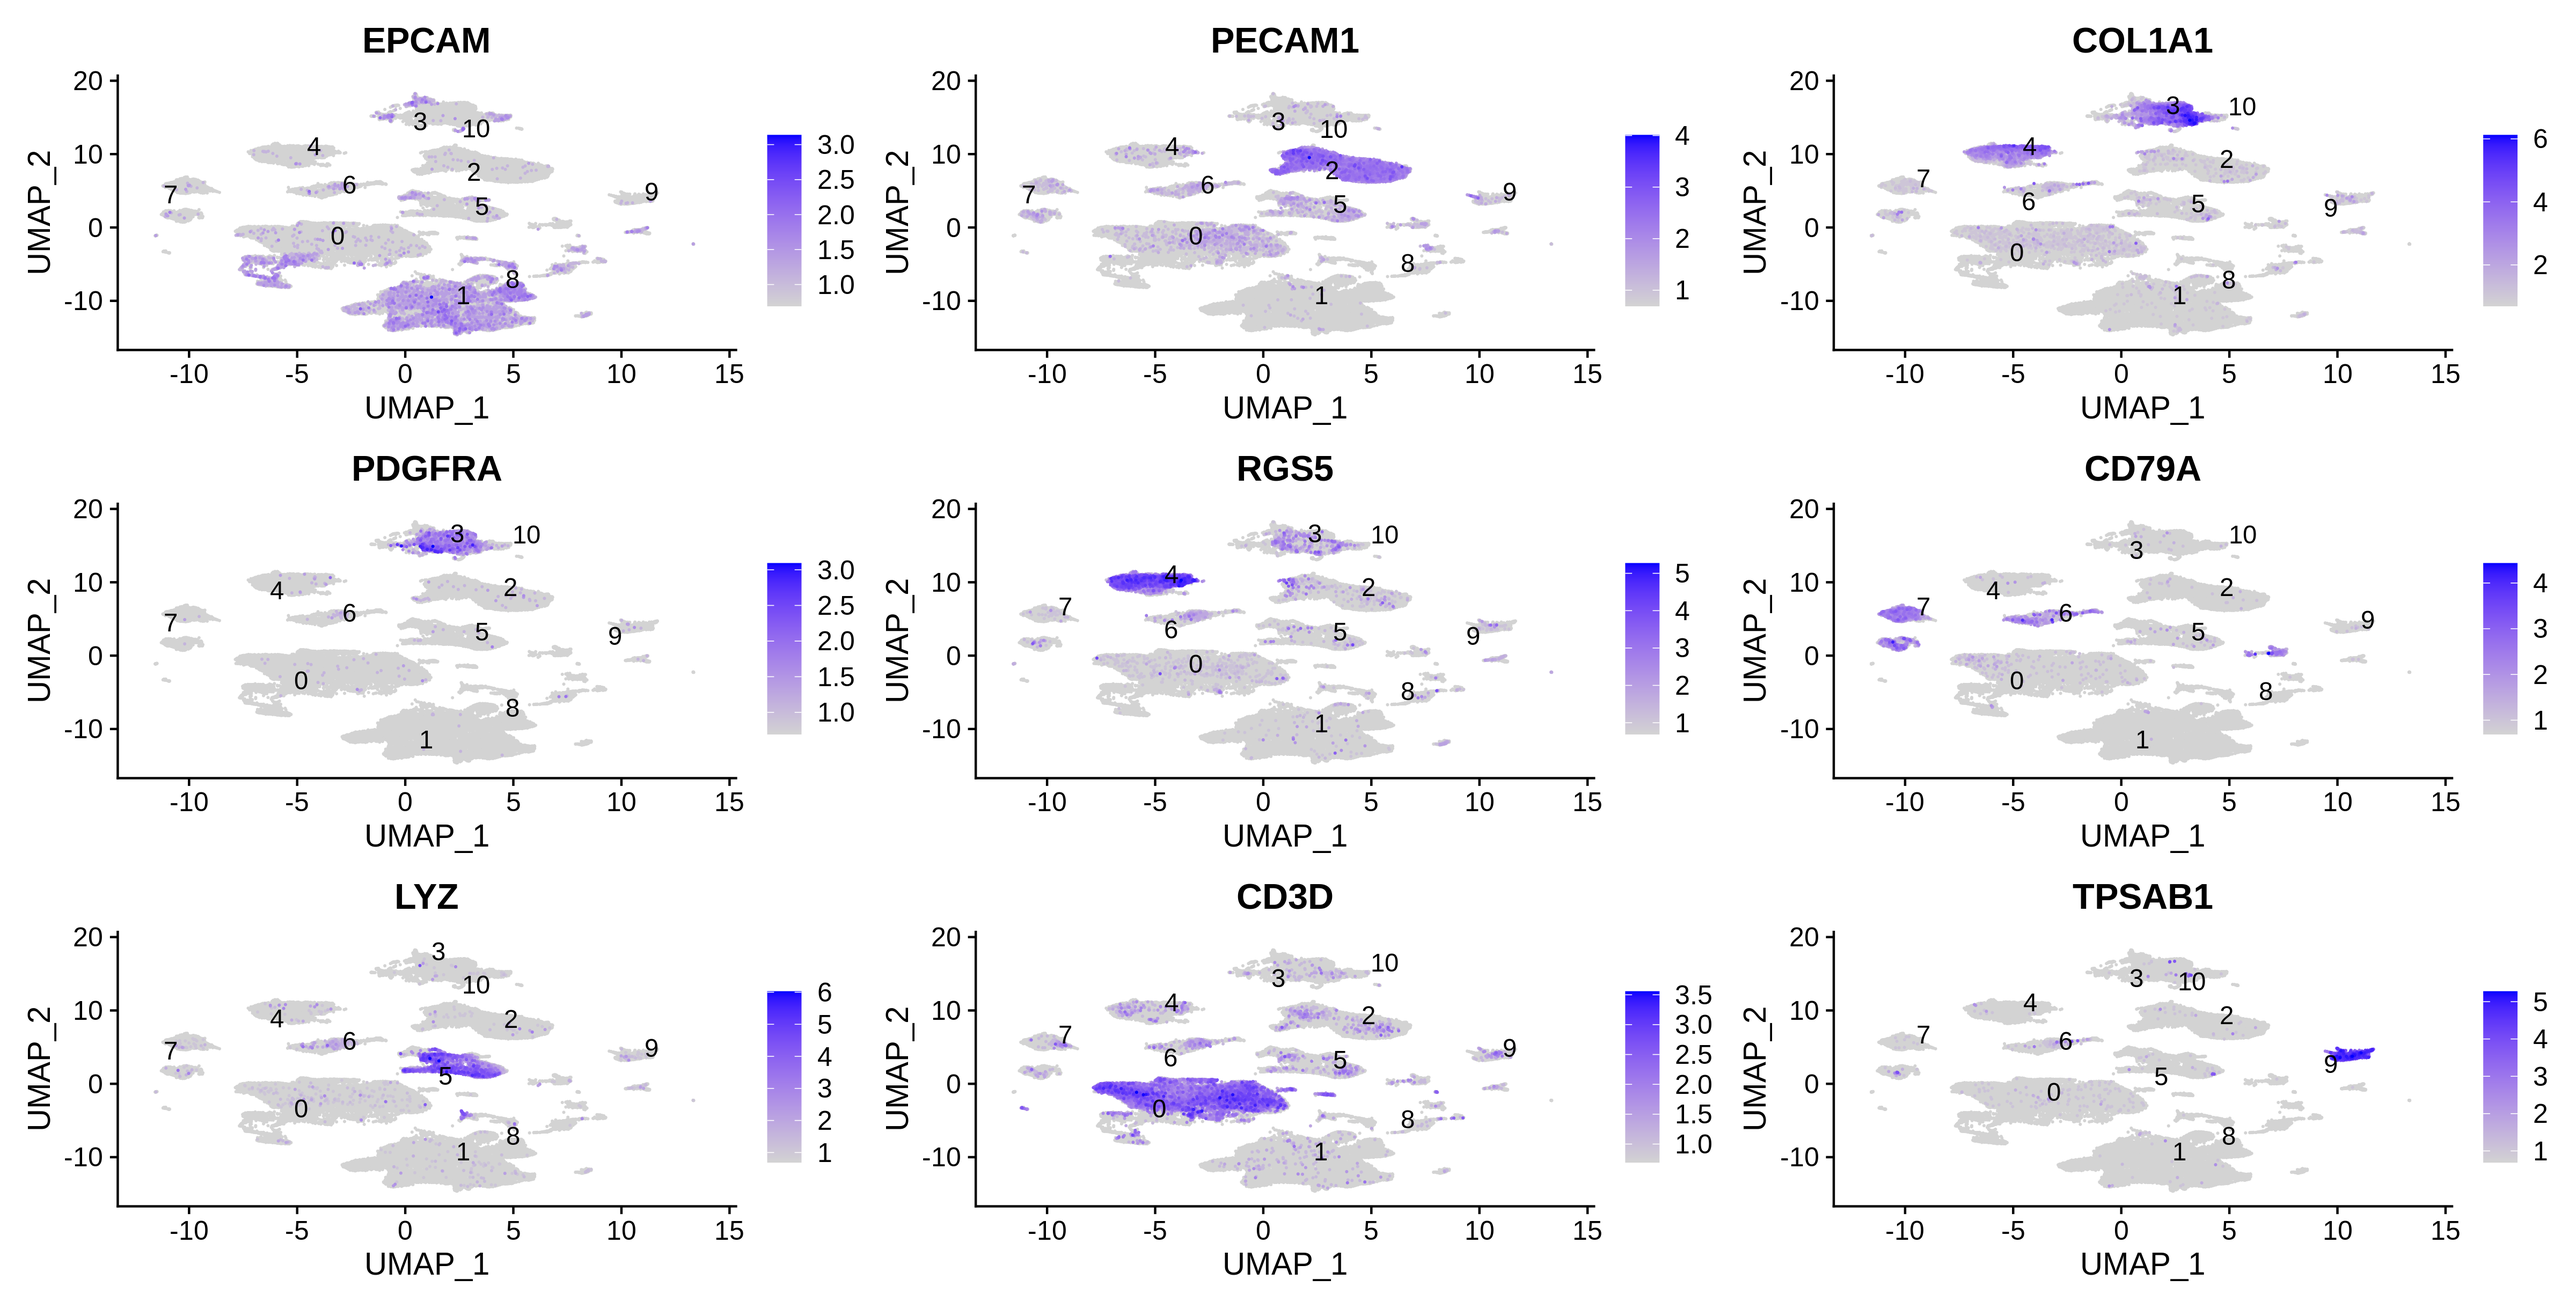
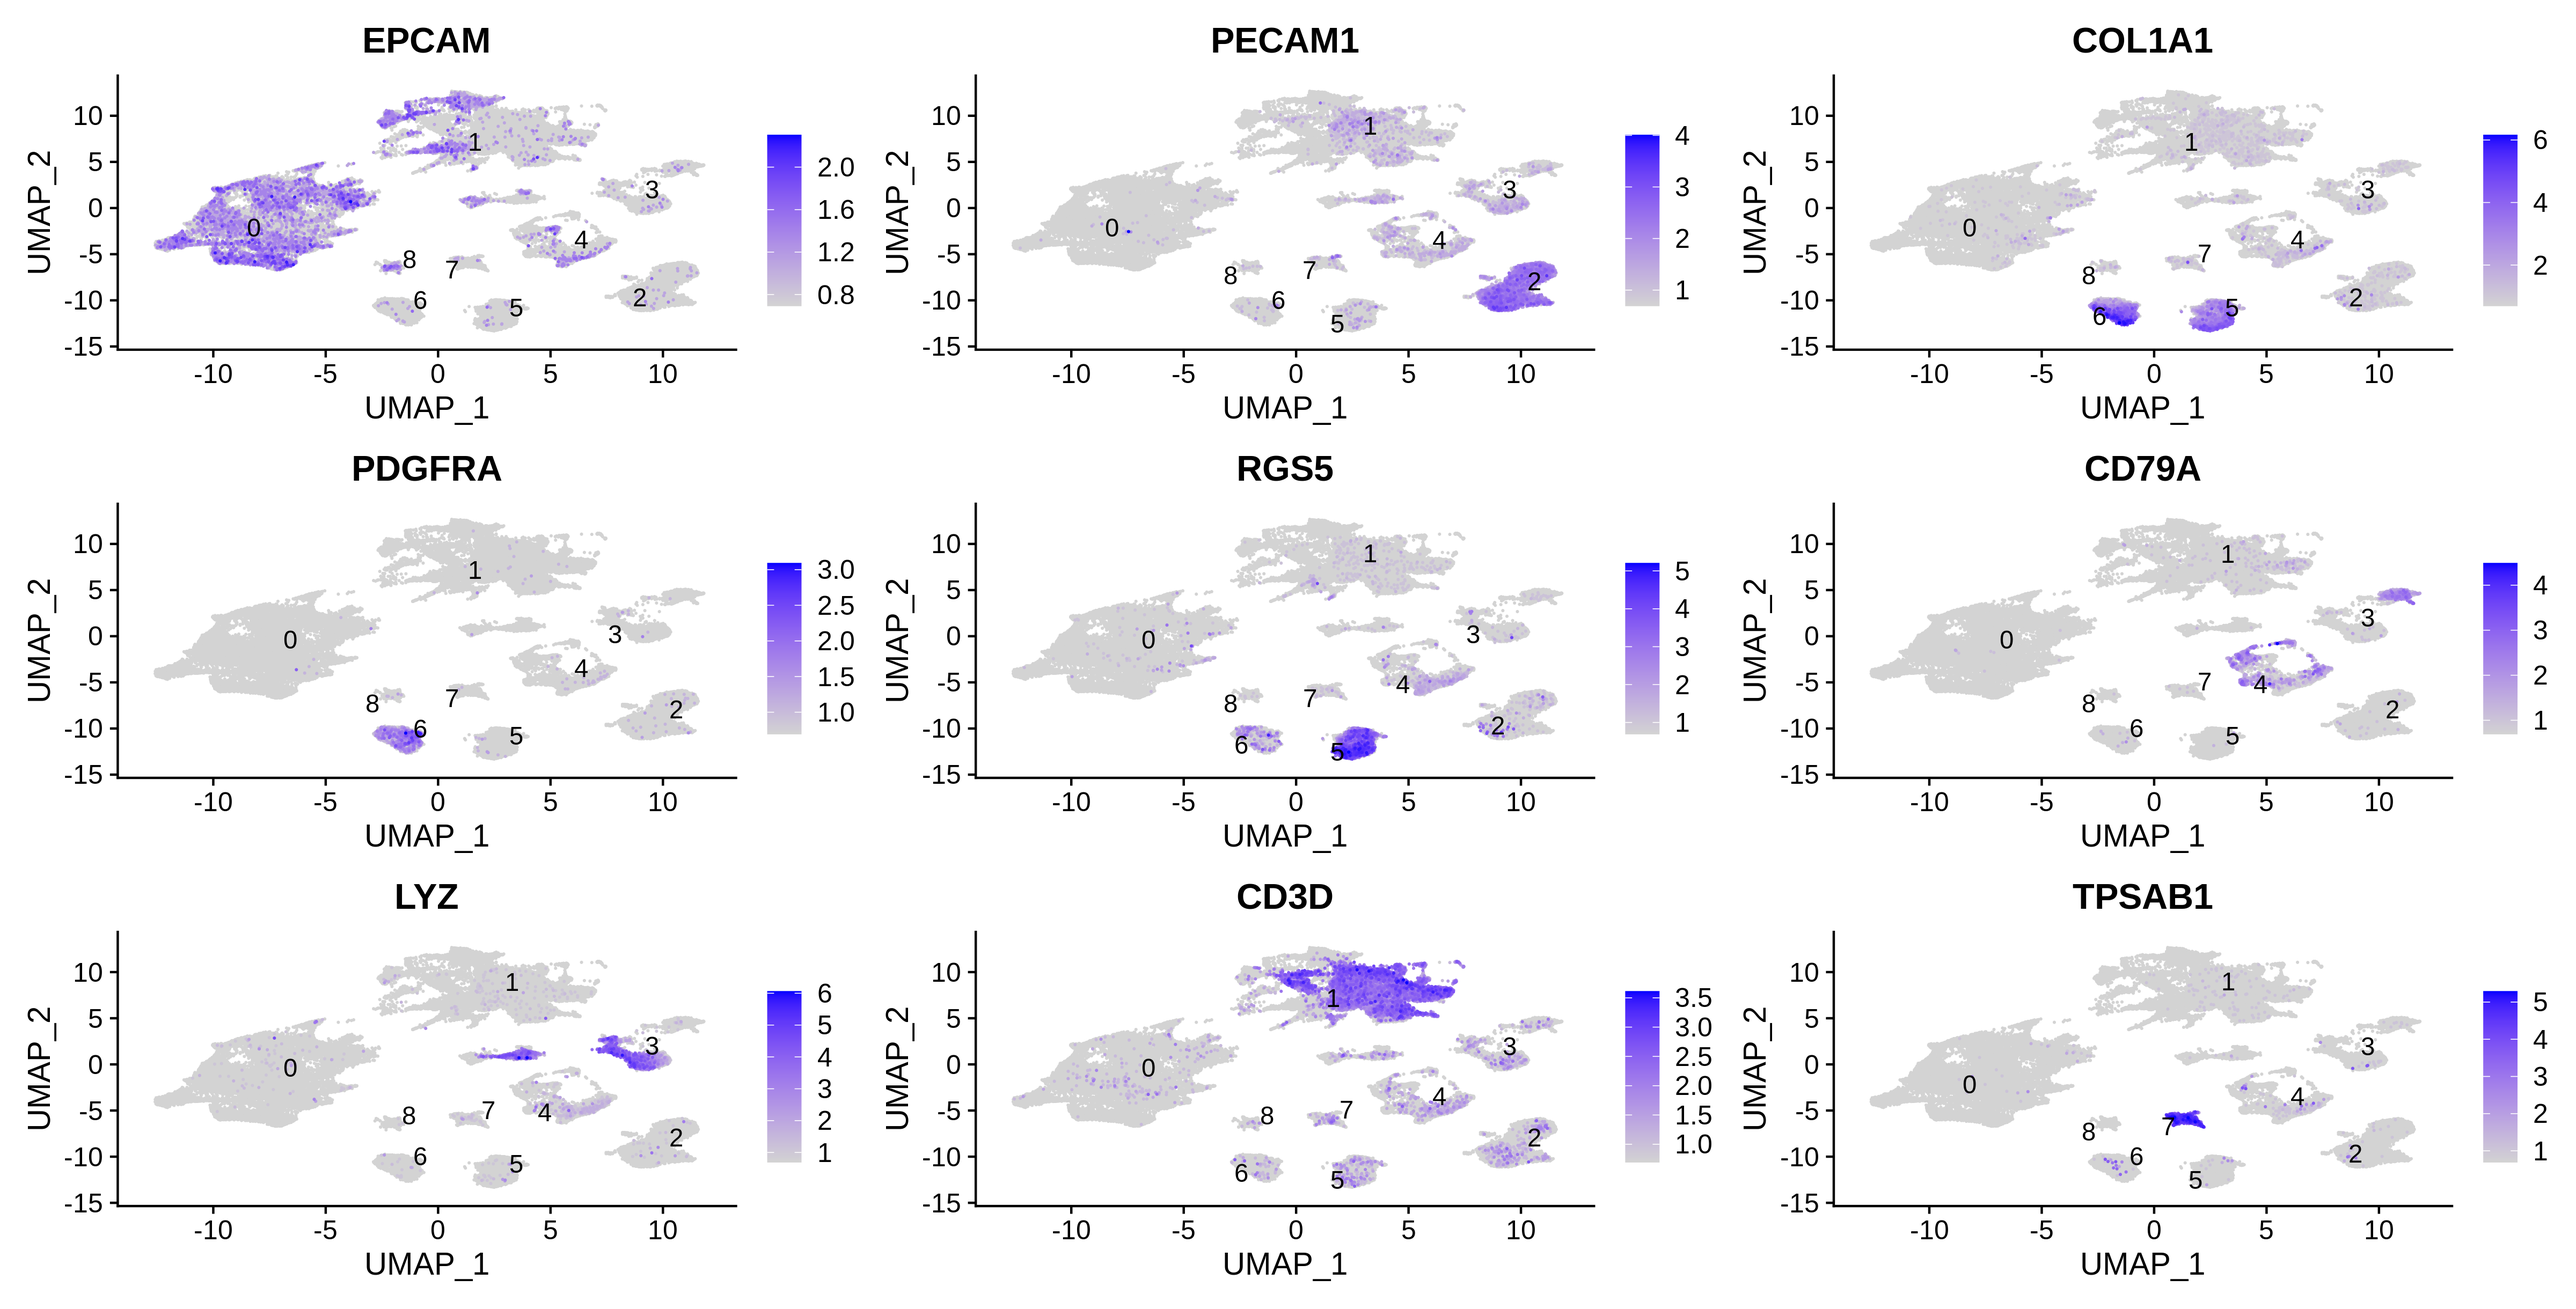
Trajectory analysis data added

diff --git a/README.md b/README.md
@@ -1836,20 +1836,21 @@ for (file in samples){
   assign(file, seurat_obj)
 }
 
+# updated sample name 
+samples_blca <- samples[-c(1,2,9)]
+
 # now merging all objects inot one Seurat obj
 
-merged_seurat <- merge(x = SRR12603780, 
-                       y = c(SRR12603781,
-                             SRR12603782,
-                             SRR12603783,
+merged_seurat <- merge(x = SRR12603782,
+                       y = c(SRR12603783,
                              SRR12603784,
                              SRR12603785,
                              SRR12603786,
                              SRR12603787,
-                             SRR12603788,
                              SRR12603789,
                              SRR12603790),
-                       add.cell.id = samples)
+                       add.cell.id = samples_blca)
+                       
 #________________________Filteration____________________________#
 # reading sampleInformation:
 sampleInformation <- read.csv("./sampleInfo.csv")
@@ -1902,10 +1903,9 @@ However, to ensure that the Harmony integration is accurately represented in the
 
 ```r
 harmonized_seurat <- RunUMAP(harmonized_seurat, reduction = "harmony", assay = "SCT", dims = 1:40)
-harmonized_seurat <- RunUTSNE(harmonized_seurat, reduction = "harmony", assay = "SCT", dims = 1:40)
+#harmonized_seurat <- RunUTSNE(harmonized_seurat, reduction = "harmony", assay = "SCT", dims = 1:40)
 
-
-#________________________SuperCluster Identification____________#
+#________________________Cluster identification and Inspect the effects of Harmony batch removel ____________#
 
 # to set reduction to harmony and finding the clusters
 harmonized_seurat <- FindNeighbors(object = harmonized_seurat, reduction = "harmony")
@@ -1913,6 +1913,23 @@ harmonized_seurat <- FindClusters(harmonized_seurat, resolution = c(0.1, 0.2, 0.
 
 # visualization
 Idents(harmonized_seurat) <- harmonized_seurat@meta.data$SCT_snn_res.0.1
+
+# color cells based on the sample name
+# Plot UMAP 
+png(filename = "harmony_UMAP_y_sample.png", width = 16, height = 8.135, units = "in", res = 300)
+DimPlot(harmonized_seurat,
+        group.by = "orig.ident",
+        reduction = "umap")
+dev.off()
+```
+
+![harmony_UMAP_y_sample.png](https://github.com/hamidghaedi/scRNA_seq-analysis/blob/main/images/harmony_UMAP_y_sample.png)
+
+As the above figure suggests, Harmony did a great job in terms of removing the batch effects.
+
+```r
+#________________________SuperCluster Identification____________#
+
 png(filename = "harmony_umap_cluster_with_label.png", width = 16, height = 8.135, units = "in", res = 300)
 DimPlot(harmonized_seurat,
         reduction = "umap",
@@ -1928,21 +1945,6 @@ dev.off()
 # CD31: PECAM1
 markers <- c("EPCAM", "PECAM1", "COL1A1", "PDGFRA", "RGS5", "CD79A", "LYZ", "CD3D", "TPSAB1")
 
-png(filename = "tsne_superCluster_cells.png", width = 16, height = 8.135, units = "in", res = 300)
-FeaturePlot(object = harmonized_seurat,
-            features = markers,
-            order = TRUE,
-            min.cutoff = "q10",
-            reduction = "tsne",
-            label = TRUE,
-            repel = TRUE)
-
-dev.off()
-```
-![tsne_superCluster_cells.png](https://github.com/hamidghaedi/scRNA_seq-analysis/blob/main/images/tsne_superCluster_cells.png)
-
-```r
-# umap
 png(filename = "umap_superCluster_cells.png", width = 16, height = 8.135, units = "in", res = 300)
 FeaturePlot(object = harmonized_seurat,
             features = markers,
@@ -1953,36 +1955,225 @@ FeaturePlot(object = harmonized_seurat,
             repel = TRUE)
 
 dev.off()
-
-#
 ```
-![umap_superCluster_cells.png](https://github.com/hamidghaedi/scRNA_seq-analysis/blob/main/images/umap_superCluster_cells.png)
+![umap_superCluster_cells.png](https://github.com/hamidghaedi/scRNA_seq-analysis/blob/main/images/tsne_superCluster_cells.png)
+
+
+
+
+#### Marker identification for the 8 superclsuters:
+
+```r
+#______________________________ All markers________________________________
+# Find markers for every cluster compared to all remaining cells, report only the positive ones
+markers <- FindAllMarkers(object = harmonized_seurat, 
+                          only.pos = TRUE,
+                          logfc.threshold = 0.25) 
+
+saveRDS(markers, "harmony_markers.RDS")
+
+# mutate the markers dataframe
+# Extract top 10 markers per cluster
+
+top10 <- markers %>%
+  mutate(delta_pct = (pct.1 - pct.2)) %>%
+  #filter(avg_log2FC > 1.5) %>%  # only keep rows where avg_log2FC > 1.5
+  group_by(cluster) %>%
+  top_n(n = 10, wt = delta_pct)
+
+data.table::fwrite(top10, "harmony_blca_top10_all_markers.csv")
 
 ```
+Visualization of top markers in each cluster:
 
-# Adding a column to the meta.data
+Cluster markers:
+```r
+cluster_markers_10 <- top10 %>% 
+                   group_by(cluster) %>% 
+                   summarize(genes = paste(gene, collapse = ","))
+data.table::fwrite(cluster_markers_10, "cluster_markers_10.csv")
+```
 
-markers <- c("EPCAM", "PECAM1", "COL1A1", "PDGFRA", "RGS5", "CD79A", "LYZ", "CD3D", "TPSAB1")
-normalized_data <- harmonized_seurat@assays$RNA@data
-normalized_data <- normalized_data[rownames(normalized_data) %in% markers,]
-normalized_data <- t(as.matrix(normalized_data))
+```r
+# feature plot for top markers
+plotList = list()
 
-# Custom function to calculate superCluster value for each row
-getSuperCluster <- function(row) {
-  # Get column names where value > 0
-  cols <- names(row[row > 0])
-  if (length(cols) == 0) {
-    # If no columns have value > 0, return "None"
-    return("None")
-  } else if (length(cols) == 1) {
-    # If only one column has value > 0, return column name
-    return(cols)
-  } else {
-    # If multiple columns have value > 0, collapse column names with "/"
-    return(paste(cols, collapse = "/"))
-  }
+for(cluster in 1:nrow(cluster_markers_10)){
+    mkr = unlist(strsplit(cluster_markers_10$genes[cluster], ","))
+    plotList[[cluster]] = FeaturePlot(object = harmonized_seurat,
+            features = mkr,
+            order = TRUE,
+            min.cutoff = "q10",
+            reduction = "umap",
+            label = TRUE,
+            repel = TRUE)
 }
 
-# Apply custom function to each row and add result as new column
-superCluster <- apply(normalized_data, 1, getSuperCluster)
+# Iterate over all clusters
+png(filename = "harmony_blca_clsuter_markers_cluster8.png", width = 16, height = 8.135, units = "in", res = 300)
+plotList[[9]]
+dev.off()
+#
+```
 
+```r
+# LYZ cells
+png(filename = "LYZ_harmony_blca_clsuter_marker.png", width = 16, height = 8.135, units = "in", res = 300)
+FeaturePlot(object = harmonized_seurat,
+            features = c("LYZ"),
+            order = TRUE,
+            min.cutoff = "q10",
+            reduction = "umap",
+            label = TRUE,
+            repel = TRUE)
+dev.off()
+
+```
+ ### Markers and cell types
+ 
+ 
+| cluster_id| genes    | cell_type (PanglaoDB + ChatGPT)     |
+|-----------|----------------------------------------------------------|-------|
+|0 |       AGR2,C10orf99,SDC1,SERINC2,SMIM22,CLDN7,TNFRSF21,FAM160A1,CXADR,RAB25| epithelial cell |
+|1 |     CD52,CD3D,PTPRC,TRAC,CD7,CD2,SKAP1,ARHGAP15,HCST,CD3E|T-cells |
+|2 |      PLVAP,SPARCL1,HSPG2,VWF,TCF4,LDB2,CALCRL,RAMP2,PCAT19,PECAM1| Endothelial cells |
+|3 |      HLA-DRA,HLA-DPB1,TYROBP,HLA-DQA1,HLA-DRB1,HLA-DPA1,HLA-DQB1,FCER1G | APCs (Macrophages, B-cells)|
+|4 |      IGLC2,IGHG1,IGLC1,IGHG3,IGHA1,IGHG4,JCHAIN,IGHGP,MZB1,DERL3 | B-cells|
+|5 |      RGS5,TAGLN,ACTA2,MYL9,CALD1,PPP1R14A,BGN,PRKG1,SOD3,COL6A2 |myo-CAFs |
+|6 |      LUM,DCN,COL1A2,COL3A1,RARRES2,MFAP4,C1S,C1R,COL6A2,COL6A3 | i-CAFS|
+|7 |      TPSB2,TPSAB1,CPA3,HPGDS,LTC4S,MS4A2,SAMSN1,RGS13,FCER1G,TYROBP |Mast cells|
+|8 |      MIR205HG,COL4A5,IGFBP2,LINC00511,FOSL1,BCAM,RAP2B,SLC35F1,AQP3,DENND2C| Epithelial cells + Mesenchymal cells |
+
+```r
+# renaming clusters
+
+# Rename all identities
+harmonized_seurat <- RenameIdents(object = harmonized_seurat, 
+                               "0" = "Epithelial cells",
+                               "1" = "T-cells", # impureity with epithelial cells
+                               "2" = "Endothelial cells",
+                               "3" = "APCs(Macrophages, B-cells)",
+                               "4" = "B-cells",
+                               "5" = "myo-CAF",
+                               "6" = "i-CAF",
+                               "7" = "Mast cells",
+                               "8" = "Epithelial cells+Mesenchymal cells")
+                               
+                               
+                               
+
+
+# Plot the UMAP withy new labells
+png(filename = "harmont_blca_umap_with_label.png", width = 16, height = 8.135, units = "in", res = 600)
+DimPlot(object = harmonized_seurat, 
+        reduction = "umap", 
+        label = TRUE,
+        label.size = 3,
+        repel = TRUE,
+        split.by = "Invasiveness")
+dev.off()
+```
+![harmont_blca_umap_with_label.png](https://github.com/hamidghaedi/scRNA_seq-analysis/blob/main/images/harmont_blca_umap_with_label.png)
+
+Cluster 1, T-cells shows some level of impurity by cluster 0, epithelial cells. This Impurity is especially evident in invasive samples. 
+
+```r
+# Obtaining clsuters with epithelial cells
+
+# To see the number of cells in each clsuter
+
+table(Idents(harmonized_seurat))
+
+#
+#                  epithelial cells                            T-cells
+#                             24135                              19850
+#                 Endothelial cells         APCs(Macrophages, B-cells)
+#                              6699                               5233
+#                           B-cells                            myo-CAF
+#                              4448                               2877
+#                             i-CAF                         Mast cells
+#                              2337                               1126
+#Epithelial cells+Mesenchymal cells
+#                               725
+#
+epi_cell_ids <- rownames(harmonized_seurat@meta.data)[harmonized_seurat@meta.data$SCT_snn_res.0.1 == '0']
+
+epi_cell_ids <- c(epi_cell_ids,rownames(harmonized_seurat@meta.data)[harmonized_seurat@meta.data$SCT_snn_res.0.1 == '8'])
+
+
+epi_seurat <- subset(filtered_seurat, subset = cells %in% epi_cell_ids)
+
+# Perform log-normalization and feature selection, as well as SCT normalization on global object
+epi_seurat <- epi_seurat %>%
+    NormalizeData() %>%
+    FindVariableFeatures(selection.method = "vst", nfeatures = 3000) %>% 
+    ScaleData() %>%
+    SCTransform(vars.to.regress = c("mitoRatio", "orig.ident"))
+
+# Calculate PCs using variable features determined by SCTransform (3000 by default)
+epi_seurat <- RunPCA(epi_seurat, assay = "SCT", npcs = 50)
+#epi_seurat <- RunTSNE(epi_seurat, assay = "SCT", npcs = 50)
+
+# Integration
+#install.packages("harmony")
+
+library(harmony)
+
+epi_seurat <- RunHarmony(epi_seurat, 
+				group.by.vars = c("orig.ident", "gender", "Surgery_Type"), 
+				reduction = "pca", assay.use = "SCT", reduction.save = "harmony")
+
+epi_seurat <- RunUMAP(epi_seurat, reduction = "harmony", assay = "SCT", dims = 1:40)
+#harmonized_seurat <- RunUTSNE(harmonized_seurat, reduction = "harmony", assay = "SCT", dims = 1:40)
+
+#Cluster identification and Inspect the effects of Harmony batch removel#
+
+# to set reduction to harmony and finding the clusters
+epi_seurat <- FindNeighbors(object = epi_seurat, reduction = "harmony")
+epi_seurat <- FindClusters(epi_seurat, resolution = c(0.1, 0.2, 0.4, 0.6, 0.8))
+
+# visualization
+Idents(epi_seurat) <- epi_seurat@meta.data$SCT_snn_res.0.1
+
+# color cells based on the sample name
+# Plot UMAP 
+png(filename = "epi_harmony_UMAP_y_sample.png", width = 16, height = 8.135, units = "in", res = 300)
+DimPlot(epi_seurat,
+        group.by = "orig.ident",
+        reduction = "umap")
+dev.off()
+#
+
+# color cells based on the cluster
+# Plot UMAP 
+png(filename = "cluster_epi_harmony_UMAP.png", width = 16, height = 8.135, units = "in", res = 300)
+DimPlot(epi_seurat,
+        reduction = "umap",
+        label = TRUE,
+        label.size = 6)
+dev.off()
+
+# Marker identification
+
+epi_markers <- FindAllMarkers(object = epi_seurat, 
+                          only.pos = TRUE,
+                          logfc.threshold = 0.15) 
+
+# mutate the markers dataframe
+# Extract top 10 markers per cluster
+
+epi_top10 <- epi_markers %>%
+  mutate(delta_pct = (pct.1 - pct.2)) %>%
+  #filter(avg_log2FC > 1.5) %>%  # only keep rows where avg_log2FC > 1.5
+  group_by(cluster) %>%
+  top_n(n = 10, wt = delta_pct)
+
+
+epi_cluster_markers_10 <- epi_top10 %>% 
+                   group_by(cluster) %>% 
+                   summarize(genes = paste(gene, collapse = ","))
+```
+## Trajectory analysis for Epithelial cells:
+
+```r 
+epi_seurat <- readRDS("epi_seurat")
